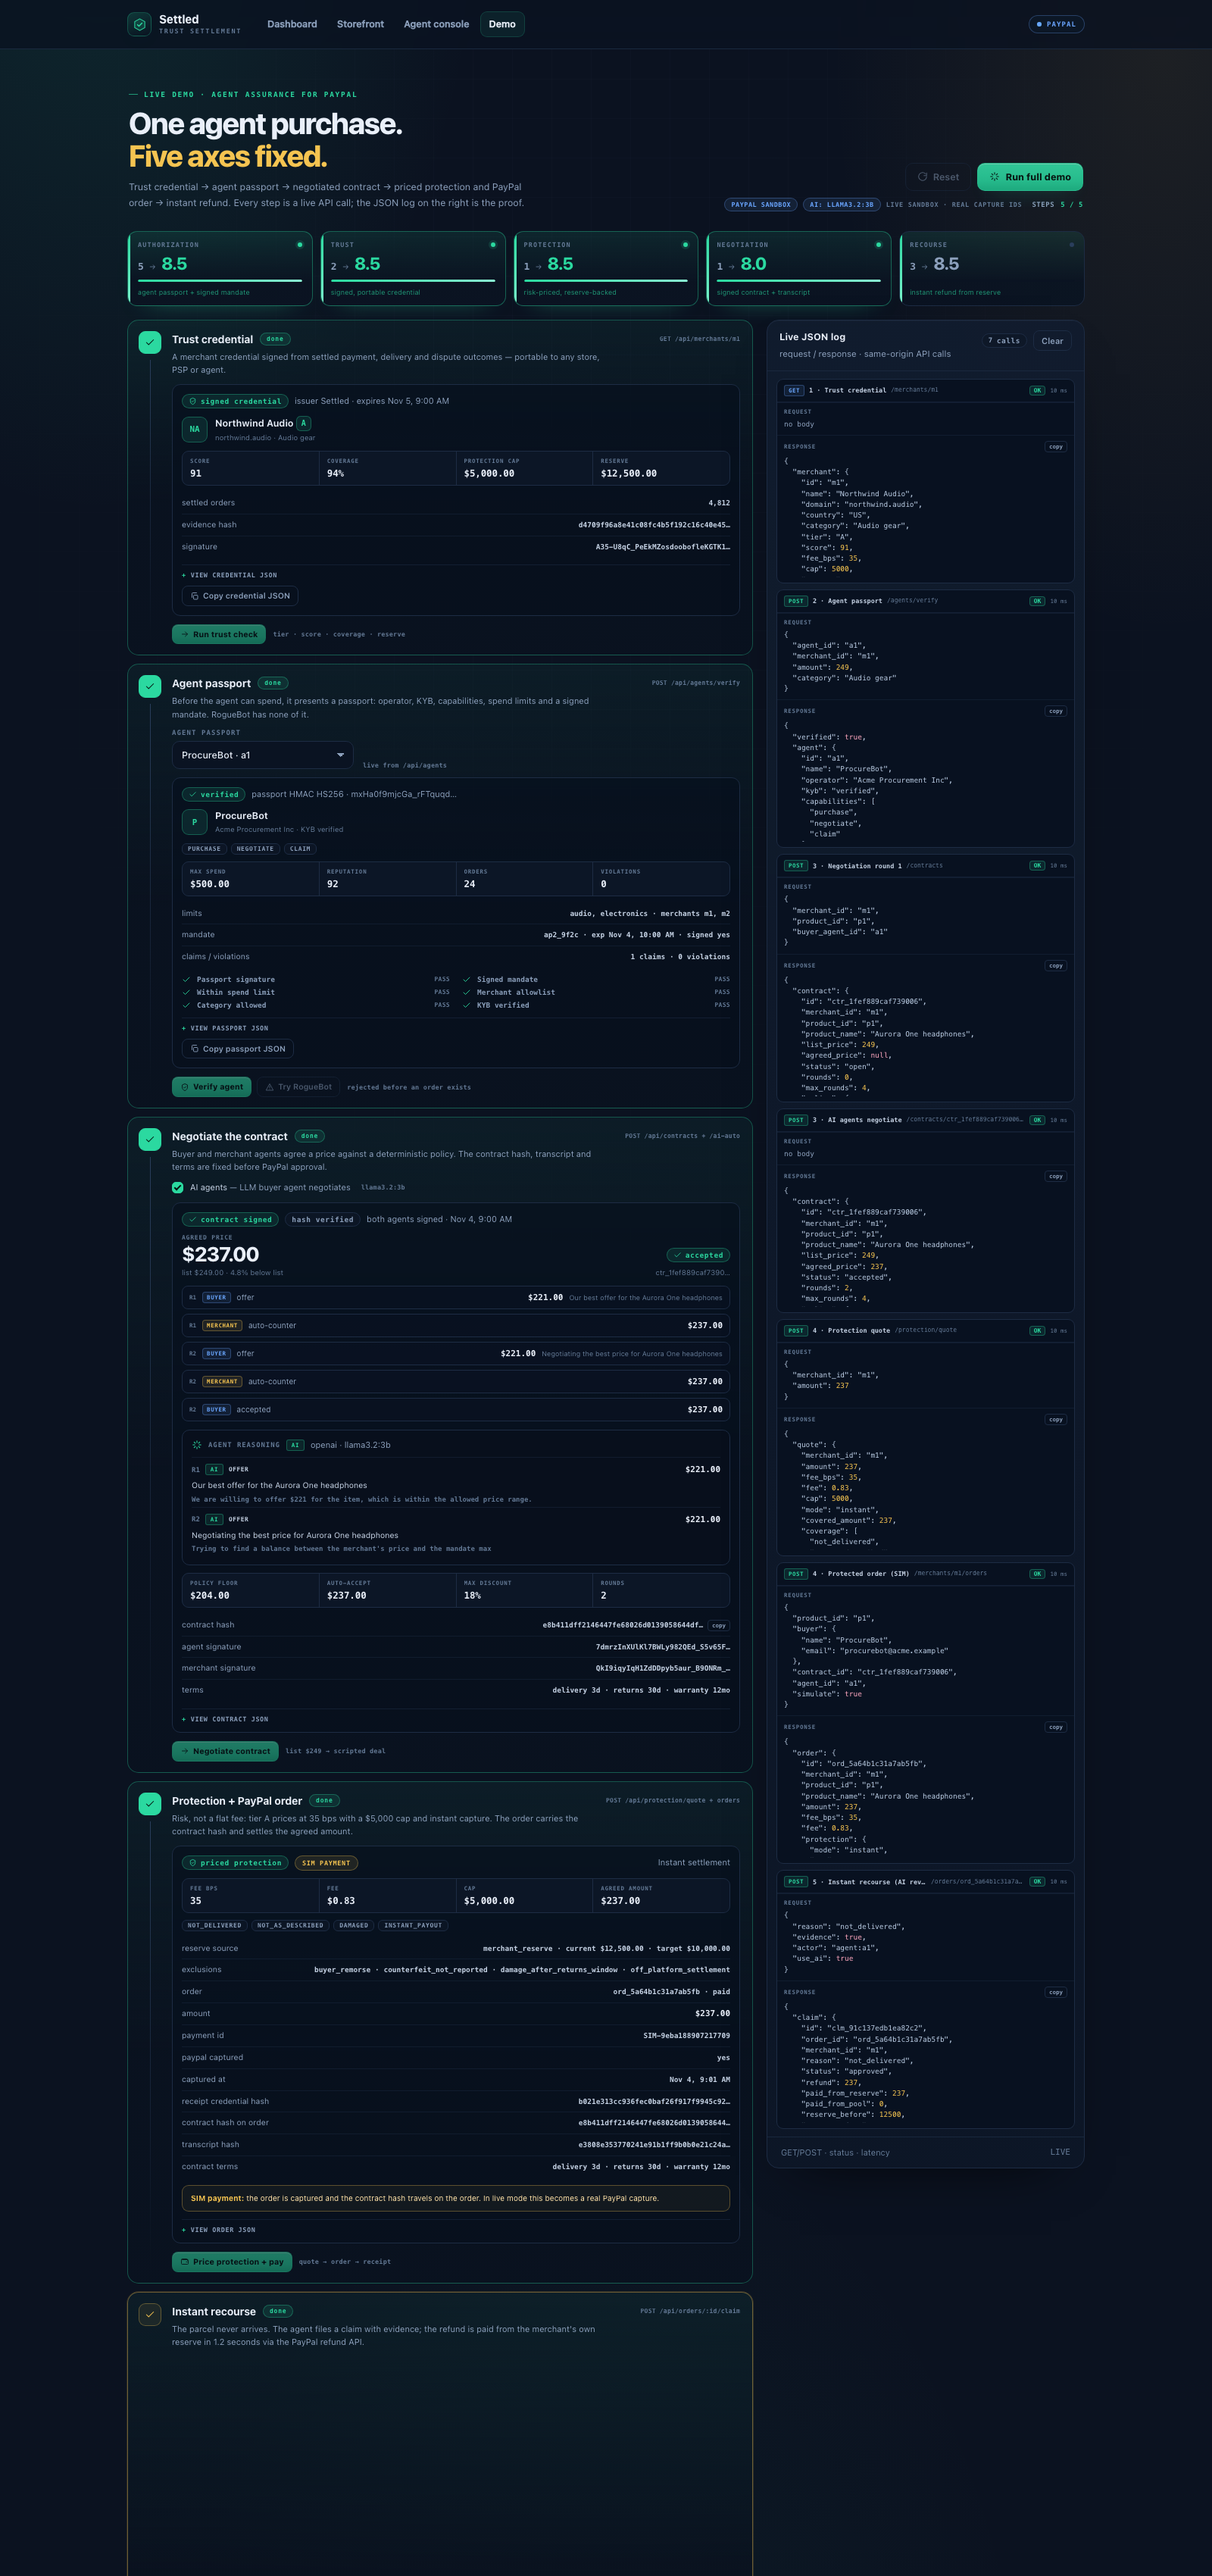
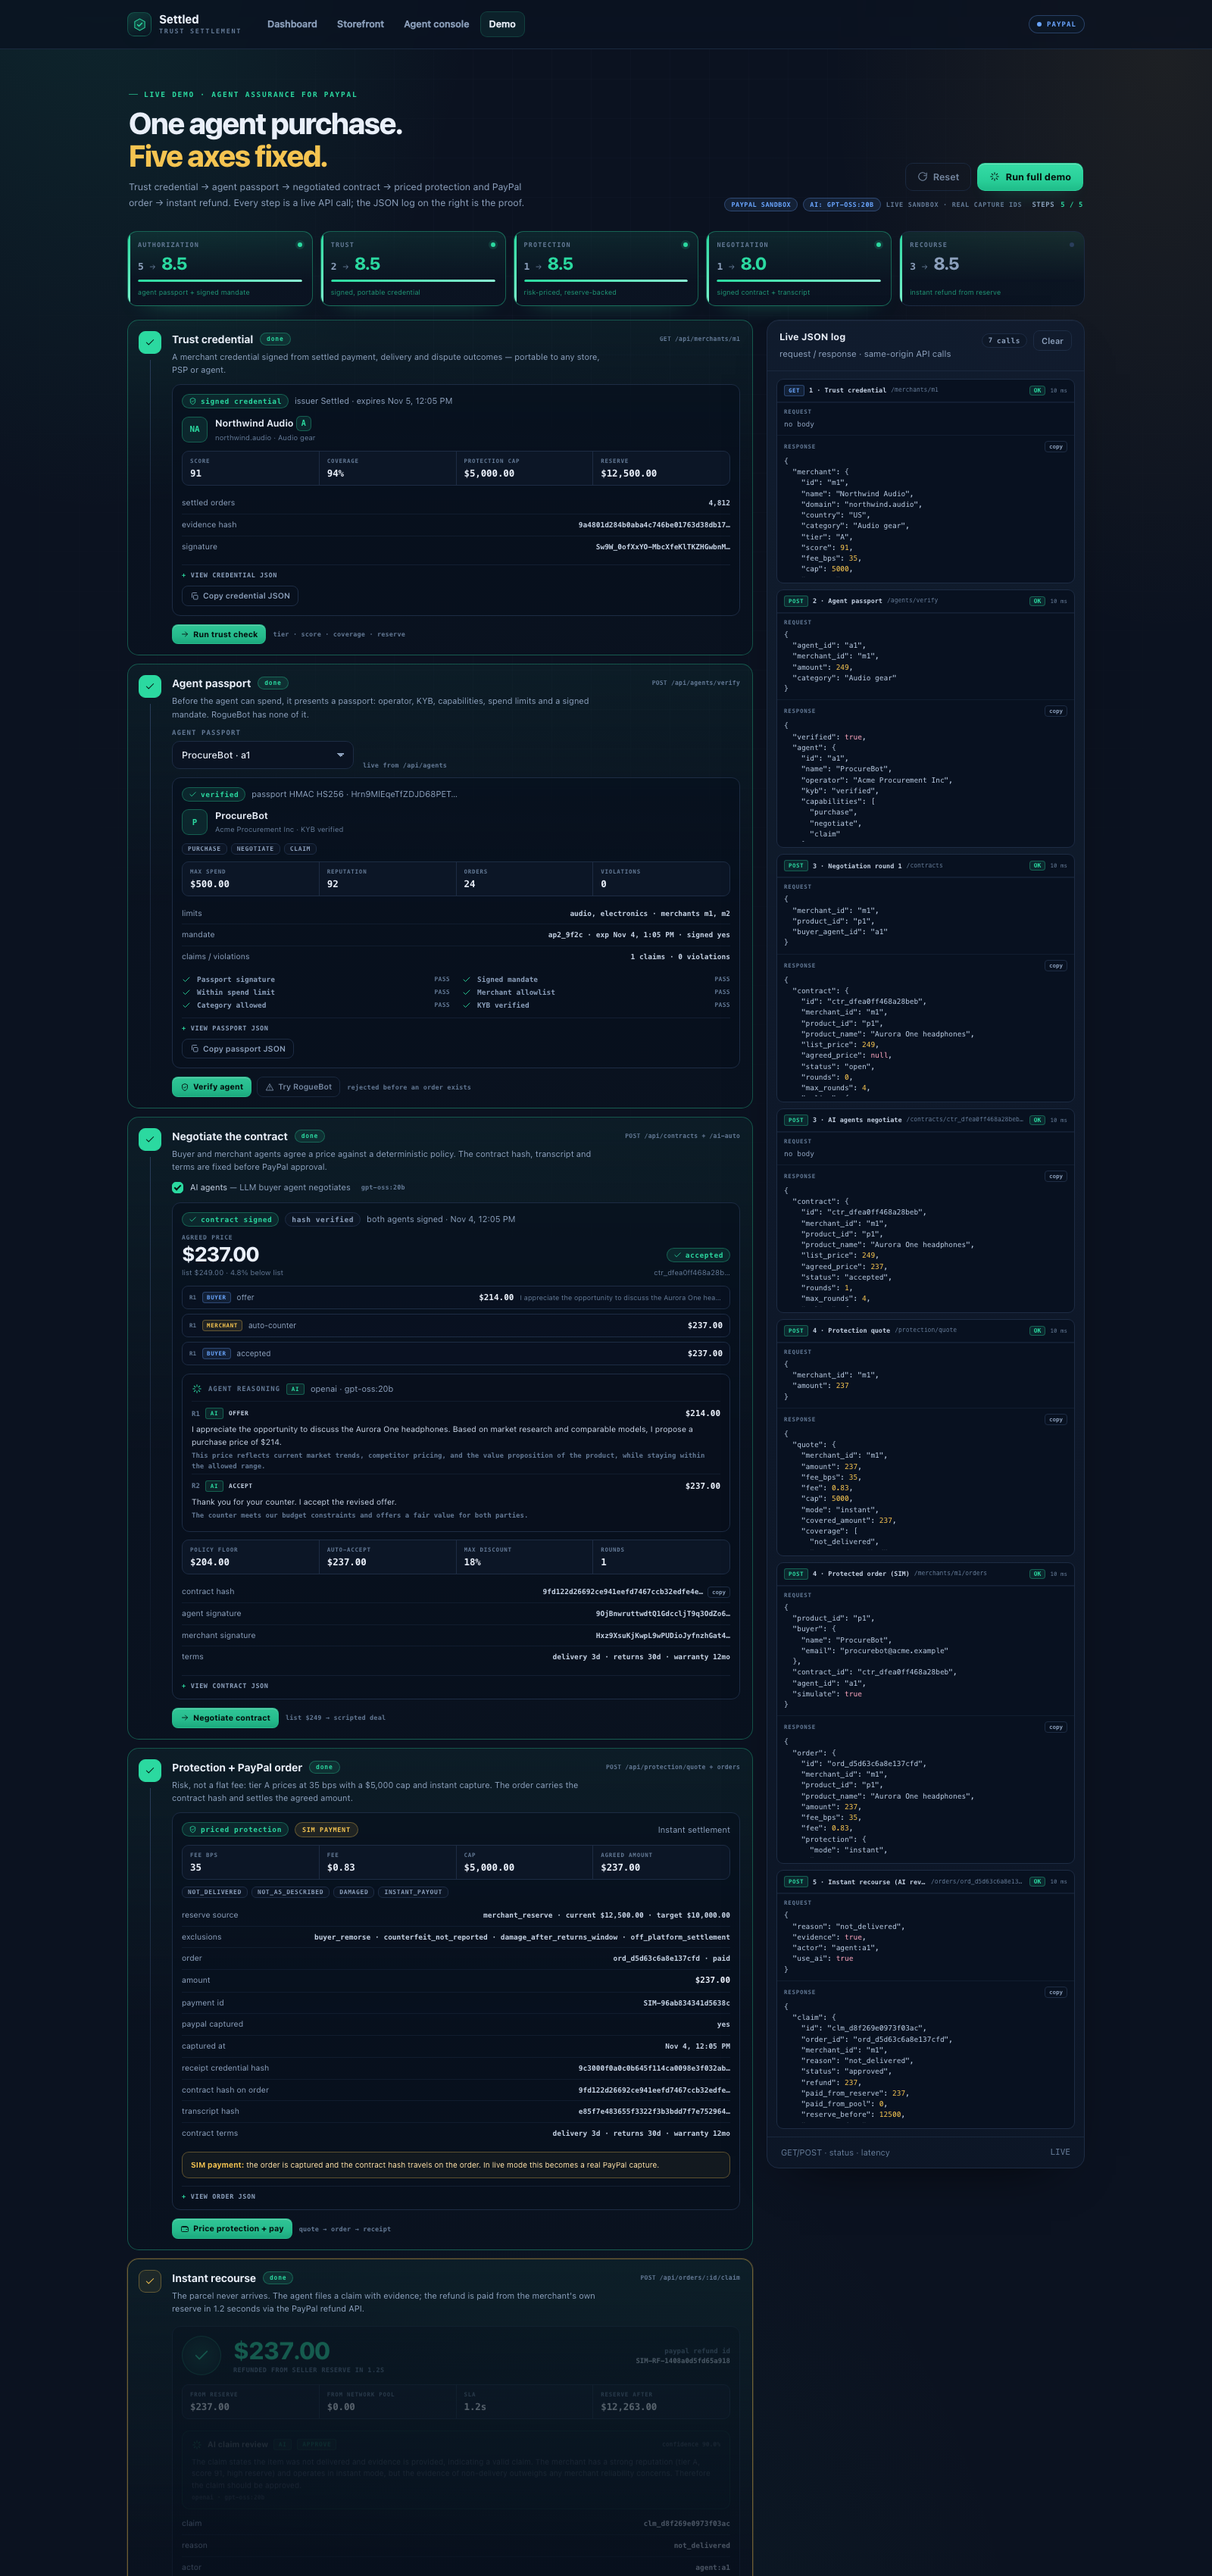
AI: one-call negotiation plan on Ollama Cloud; raise token budgets so step 3 no longer stalls

diff --git a/lib/ai.js b/lib/ai.js
@@ -183,7 +183,7 @@ async function negotiateBuyer(input = {}) {
     const out = await chatJson([
       { role: 'system', content: system },
       { role: 'user', content: user },
-    ]);
+    ], 600);
 
     const wantsAccept = String(out.action).toLowerCase() === 'accept';
     if (wantsAccept && canAccept) {
@@ -364,7 +364,7 @@ async function explainClaim(input = {}) {
     const out = await chatJson([
       { role: 'system', content: system },
       { role: 'user', content: user },
-    ]);
+    ], 600);
     const rec = String(out.recommendation || '').toLowerCase();
     const recommendation = RECOMMENDATIONS.has(rec) ? rec : 'review';
     let confidence = Number(out.confidence);
